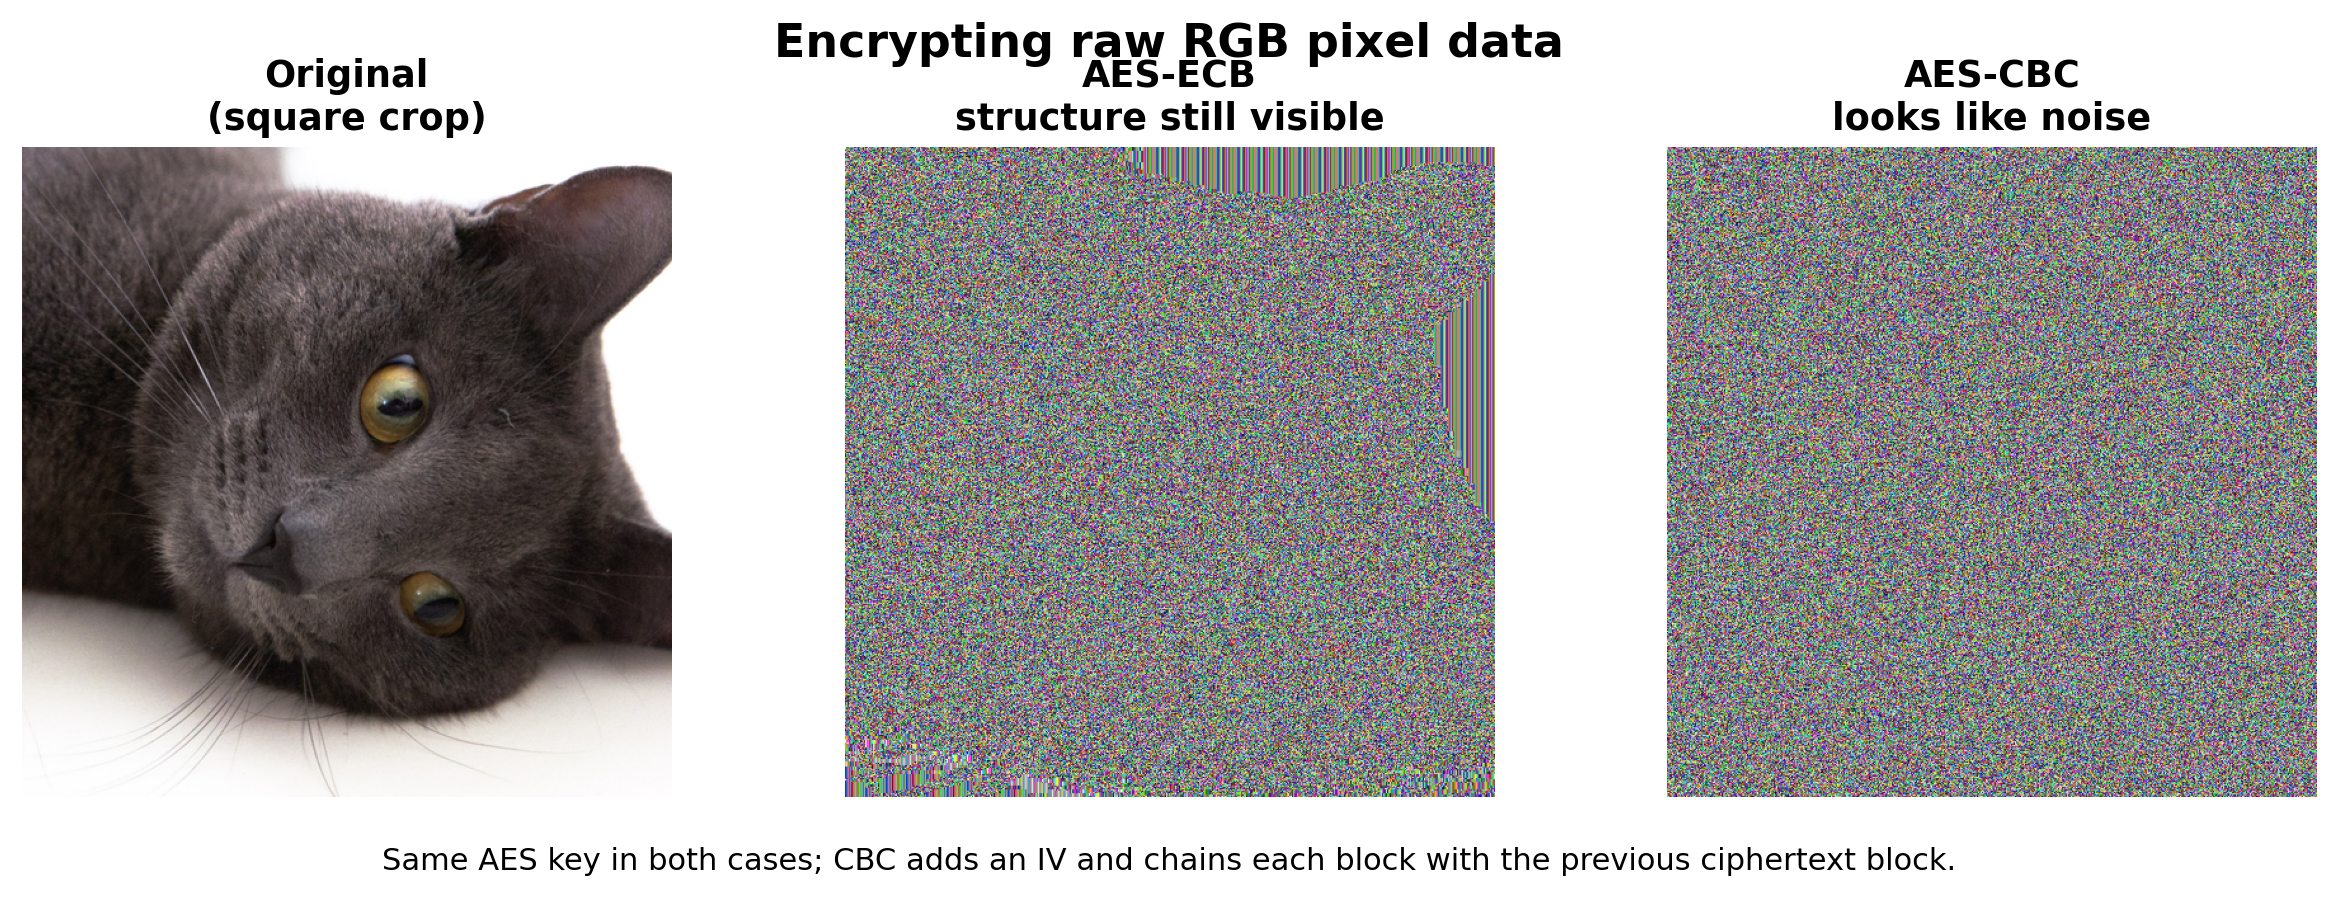
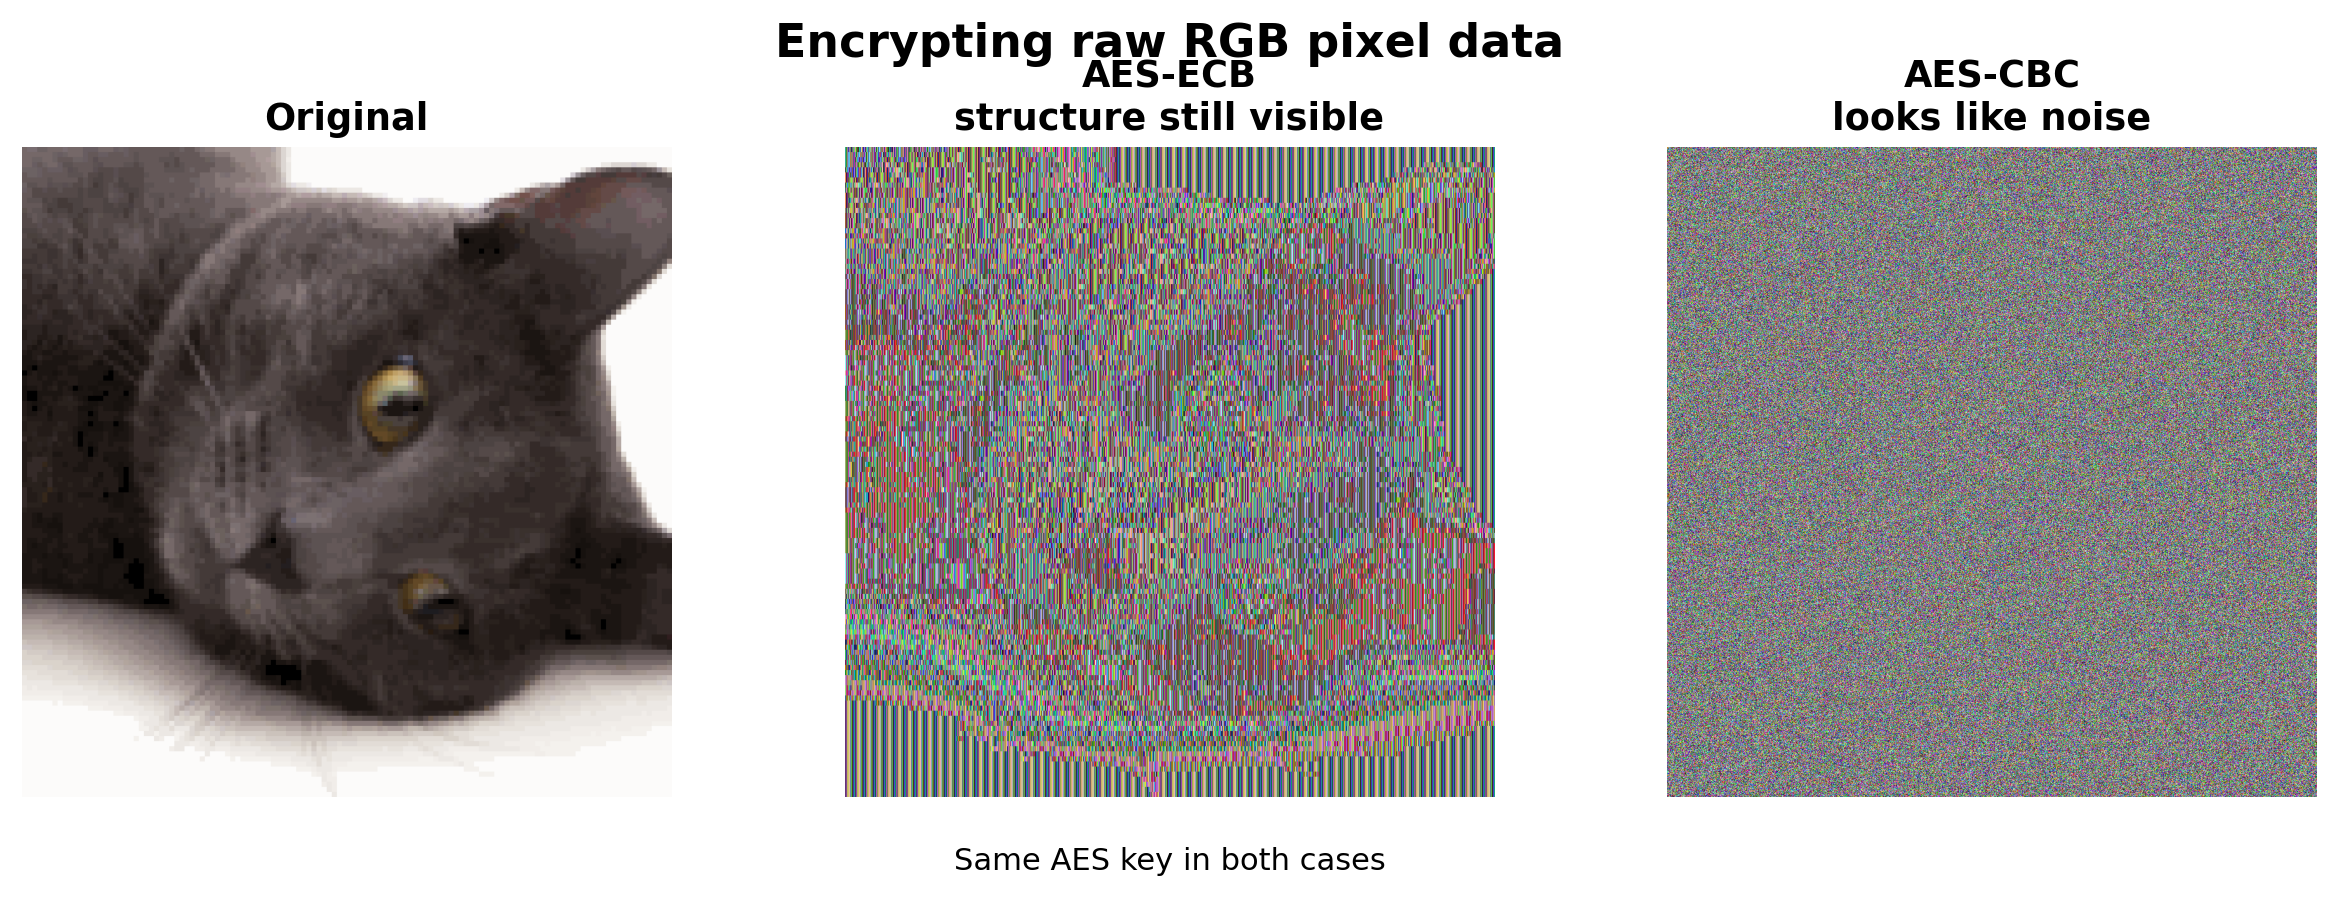
feat(blog): update AES demonstration with new quantized figures and enhanced image processing

diff --git a/apps/blog/src/content/blog/aes-is-dead/figures/render-cipher-mode-example.py b/apps/blog/src/content/blog/aes-is-dead/figures/render-cipher-mode-example.py
@@ -12,30 +12,61 @@ matplotlib.use("Agg")
 
 FIGURES_DIR = Path(__file__).resolve().parent
 POST_DIR = FIGURES_DIR.parent
-INPUT_IMAGE = POST_DIR / "example.jpeg"
-SQUARE_OUTPUT = FIGURES_DIR / "example-square.png"
+INPUT_IMAGE = "/home/zerotwo/02labs/blog/aes_is_dead/figures/example-square.png"
+SQUARE_OUTPUT = FIGURES_DIR / "example-square-quantized.png"
 FIGURE_OUTPUT = FIGURES_DIR / "ecb-cbc-image-example.png"
 
-DISPLAY_SIZE = 512
+DISPLAY_SIZE = 1024
 
 KEY = bytes.fromhex("00112233445566778899aabbccddeeff")
 IV = bytes.fromhex("0f0e0d0c0b0a09080706050403020100")
 
+# Tunable parameters for making ECB leakage more obvious
+PIXELATE_TO = 128     # try 32, 48, or 64
+PALETTE_COLORS = 256    # try 8, 16, 32, or 64
+BLACK_THRESHOLD = 18   # pixels darker than this become pure black
+
 
 def load_square_image() -> Image.Image:
     image = Image.open(INPUT_IMAGE).convert("RGB")
+
     width, height = image.size
     side = min(width, height)
     left = (width - side) // 2
     top = (height - side) // 2
     crop_box = (left, top, left + side, top + side)
+
     square = image.crop(crop_box)
     square = square.resize((DISPLAY_SIZE, DISPLAY_SIZE), Image.Resampling.LANCZOS)
     return square
 
 
+def quantize_for_ecb_demo(image: Image.Image) -> Image.Image:
+    # Step 1: reduce spatial detail so larger flat areas appear
+    image = image.resize((PIXELATE_TO, PIXELATE_TO), Image.Resampling.BILINEAR)
+    image = image.resize((DISPLAY_SIZE, DISPLAY_SIZE), Image.Resampling.NEAREST)
+
+    # Step 2: reduce color palette aggressively
+    image = image.quantize(
+        colors=PALETTE_COLORS,
+        method=Image.Quantize.FASTOCTREE
+    ).convert("RGB")
+
+    # Step 3: make near-black regions exactly black
+    arr = np.asarray(image).copy()
+    luma = (
+        0.299 * arr[..., 0]
+        + 0.587 * arr[..., 1]
+        + 0.114 * arr[..., 2]
+    )
+    arr[luma < BLACK_THRESHOLD] = [0, 0, 0]
+
+    return Image.fromarray(arr.astype(np.uint8), "RGB")
+
+
 def encrypt_image_bytes(image: Image.Image, mode: str) -> np.ndarray:
     plaintext = image.tobytes()
+
     if len(plaintext) % AES.block_size != 0:
         raise ValueError("Image byte length must be a multiple of the AES block size")
 
@@ -47,21 +78,25 @@ def encrypt_image_bytes(image: Image.Image, mode: str) -> np.ndarray:
         raise ValueError(f"Unsupported mode: {mode}")
 
     ciphertext = cipher.encrypt(plaintext)
-    return np.frombuffer(ciphertext, dtype=np.uint8).reshape((DISPLAY_SIZE, DISPLAY_SIZE, 3))
+
+    return np.frombuffer(ciphertext, dtype=np.uint8).reshape(
+        (DISPLAY_SIZE, DISPLAY_SIZE, 3)
+    )
 
 
 def main() -> None:
-    square = load_square_image()
-    square.save(SQUARE_OUTPUT)
+    original_square = load_square_image()
+    processed_square = quantize_for_ecb_demo(original_square)
+    processed_square.save(SQUARE_OUTPUT)
 
-    original = np.asarray(square)
-    ecb = encrypt_image_bytes(square, "ECB")
-    cbc = encrypt_image_bytes(square, "CBC")
+    original = np.asarray(processed_square)
+    ecb = encrypt_image_bytes(processed_square, "ECB")
+    cbc = encrypt_image_bytes(processed_square, "CBC")
 
     fig, axes = plt.subplots(1, 3, figsize=(11.5, 4.1), dpi=220)
 
     panels = [
-        (original, "Original\n(square crop)"),
+        (original, "Original"),
         (ecb, "AES-ECB\nstructure still visible"),
         (cbc, "AES-CBC\nlooks like noise"),
     ]
@@ -75,7 +110,9 @@ def main() -> None:
     fig.text(
         0.5,
         0.04,
-        "Same AES key in both cases; CBC adds an IV and chains each block with the previous ciphertext block.",
+        (
+            "Same AES key in both cases"
+        ),
         ha="center",
         fontsize=10,
     )

diff --git a/blog/aes_is_dead/figures/render-cipher-mode-example.py b/blog/aes_is_dead/figures/render-cipher-mode-example.py
@@ -96,7 +96,7 @@ def main() -> None:
     fig, axes = plt.subplots(1, 3, figsize=(11.5, 4.1), dpi=220)
 
     panels = [
-        (original, "Original\n(pixelated + quantized)"),
+        (original, "Original"),
         (ecb, "AES-ECB\nstructure still visible"),
         (cbc, "AES-CBC\nlooks like noise"),
     ]
@@ -111,8 +111,7 @@ def main() -> None:
         0.5,
         0.04,
         (
-            "Same AES key in both cases; CBC uses an IV and chains blocks, "
-            "while ECB preserves repeated plaintext patterns."
+            "Same AES key in both cases"
         ),
         ha="center",
         fontsize=10,

diff --git a/apps/blog/src/content/blog/aes-is-dead/index.md b/apps/blog/src/content/blog/aes-is-dead/index.md
@@ -2,6 +2,7 @@
 title: "Daily AlpacaHack: AES is dead Writeup"
 description: "AES probably not, ECB definitely."
 pubDate: 2026-04-10
+featuredImage: "figures/ecb-cbc-image-example.png"
 tags: ["AlpacaHack", "Crypto", "Writeup", "ECB", "AES", "cipher mode"]
 ---
 

diff --git a/blog/aes_is_dead/index.md b/blog/aes_is_dead/index.md
@@ -2,6 +2,7 @@
 title: "Daily AlpacaHack: AES is dead Writeup"
 description: "AES probably not, ECB definitely."
 pubDate: 2026-04-10
+featuredImage: "figures/ecb-cbc-image-example.png"
 tags: ["AlpacaHack", "Crypto", "Writeup", "ECB", "AES", "cipher mode"]
 ---
 
